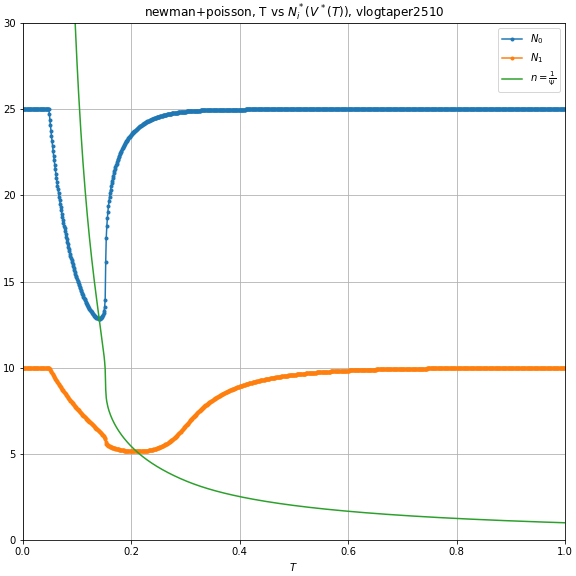
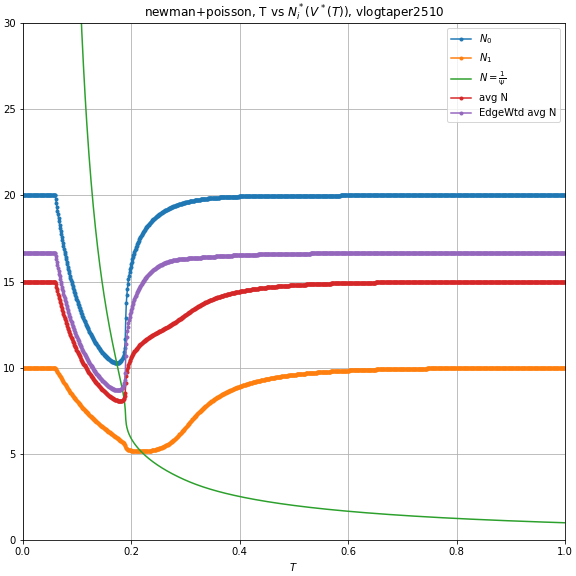
Messed up graphs

diff --git a/contagion/graph_newman_poisson.py b/contagion/graph_newman_poisson.py
@@ -31,10 +31,11 @@ fig,ax = plt.subplots(figsize=(8,5),constrained_layout=True)
 plt.plot(unit_grid,[nnp.approx_bestNi(1-Ψ, nnp.u_Nlogtaper_H) for Ψ in unit_grid])
 plt.plot(unit_grid,[nnp.approx_bestNi(1-Ψ, nnp.u_Nlogtaper_L) for Ψ in unit_grid])
 plt.plot(unit_grid,[1/Ψ for Ψ in unit_grid])
-plt.plot(unit_grid,[nnp.approx_bestNi(1-Ψ, lambda N: nnp.u_Nlogtaper(N,4,0.5)) for Ψ in unit_grid])
+#plt.plot(unit_grid,[nnp.approx_bestNi(1-Ψ, lambda N: nnp.u_Nlogtaper(N,4,0.5)) for Ψ in unit_grid])
 labelSubplot(ax, r'newman+poisson,$N_i^*(\Psi),logtaper$',r'$\Psi$',r'$N_i^*(\Psi)$')
 ax.set_ylim([0,30])
 ax.set_xlim([0,1])
+ax.grid()
 plt.savefig('graph_newman_poisson_Ni(Psi)_logtaper.png')
 
 
@@ -51,6 +52,7 @@ def plot_Ψiteration(Ai_list,utilfunc_list,speciallabel):
     ax.set_ylim([0,1])
     ax.set_xlim([0,1])
     ax.legend()
+    ax.grid()
     labelSubplot(ax, 'newman+poisson,Ψ(N(Ψ)),'+speciallabel, '$Ψ$', '$Ψ(\{N_i^*(Ψ)\})$')
     plt.savefig('graph_newman_poisson_Ψ(N(Ψ))_'+speciallabel+'.png')
     
@@ -72,6 +74,7 @@ def plot_Ψiteration_differencetest(Ai_list,utilfunc_list):
     ax.set_ylim([-ytol,ytol])
     ax.set_xlim([xmn,xmx])
     ax.legend()
+    ax.grid()
     plt.show()
 #plot_Ψiteration_differencetest([0.5,0.5],[nnp.u_Nlogtaper_H,nnp.u_Nlogtaper_L])   
 
@@ -81,24 +84,32 @@ def plot_equilibriumvsT(Ai_list,utilfunc_list,speciallabel):
     '''Iterate through T, find an equilibrium edge risk at each point. 
     Plug that in to get choices and prevalences. Plot  two graphs.'''
     #unit_grid = np.arange(0.15,0.155,0.00001)
+    unit_grid = np.arange(0.15,0.25,0.0001)
     #Calculate the gridpoints: eqlb edge risk, eqlb connections, eqlb r_infty
     equilV_grid = [nnp.approx_equilibriumV(T, Ai_list, utilfunc_list) for T in unit_grid]
     equilΨ_grid = [1-V for V in equilV_grid]
     Ni_grids = [[nnp.approx_bestNi(V,utilfunc) for V in equilV_grid] for utilfunc in utilfunc_list]
+    #averages 
     Rinfty_grids = [[nnp.calc_p(Ni, V) for Ni,V in zip(Ni_grid,equilV_grid)] for Ni_grid in Ni_grids]
-    
+    weightedN_grid = sum([Ai*np.array(Ni_grid) for Ai,Ni_grid in zip(Ai_list,Ni_grids)])
+    weightedN2_grid = sum([Ai*np.array(Ni_grid)**2 for Ai,Ni_grid in zip(Ai_list,Ni_grids)])
+    edgeweightedN_grid = weightedN2_grid/weightedN_grid
+    weightedR_grid = sum([Ai*np.array(Ri_grid) for Ai,Ri_grid in zip(Ai_list,Rinfty_grids)])
+    edgesharetype0_grid = Ai_list[0]*np.array(Ni_grids[0])/weightedN_grid
     
     # First plot a graph of risk and prevalence.
     fig,ax = plt.subplots(figsize=(8,8),constrained_layout=True)
     
     ax.plot(unit_grid,unit_grid,c='black',linestyle='dotted')#45degree line
     for i,Ri_grid in enumerate(Rinfty_grids):
-        ax.plot(unit_grid, Ri_grid, label=r'$R_{\infty '+str(i)+r'}$', marker='.')
+        ax.plot(unit_grid, Ri_grid, label=r'$p(N_'+str(i)+r')$', marker='.')
     ax.plot(unit_grid, equilΨ_grid, label=r'$Ψ_{eq}$', marker='.')
+    ax.plot(unit_grid, weightedR_grid, label=r'$R_{\infty}$', marker='.')
+    ax.plot(unit_grid, edgesharetype0_grid, label='$edgshr_{0}$', marker='.')
     
     ax.set_ylim([0,1])
     ax.set_xlim([0,1])
-    ax.legend()
+    ax.legend(loc='lower right')
     ax.grid()
     labelSubplot(ax, 'newman+poisson, T vs equilibrium prevalence, '+speciallabel, '$T$', '')
     plt.savefig('graph_newman_poisson_equilibriumprev_'+speciallabel+'.png')
@@ -110,19 +121,25 @@ def plot_equilibriumvsT(Ai_list,utilfunc_list,speciallabel):
     
     for i,Ni_grid in enumerate(Ni_grids):
         ax.plot(unit_grid, Ni_grid, label='$N_'+str(i)+'$', marker='.')    
-    plt.plot(unit_grid,[1/Ψ for Ψ in equilΨ_grid], label=r'$n=\frac{1}{\Psi}$')
+    plt.plot(unit_grid,[1/Ψ for Ψ in equilΨ_grid], label=r'$N=\frac{1}{\Psi}$')
+    ax.plot(unit_grid, weightedN_grid, label='avg N', marker='.')   
+    ax.plot(unit_grid, edgeweightedN_grid, label='EdgeWtd avg N', marker='.')   
     #plt.plot([0.153,0.153],[0,30])
     
     ax.set_ylim([0,30])
     ax.set_xlim([0,1])
-    ax.legend()
+    ax.legend(loc='upper right')
     ax.grid()
     labelSubplot(ax, r'newman+poisson, T vs $N_i^*(V^*(T))$, '+speciallabel, '$T$', '')
     plt.savefig('graph_newman_poisson_equilibriumchoices_'+speciallabel+'.png')
     
 
 
-plot_equilibriumvsT([0.5,0.5],[nnp.u_Nlogtaper_H,nnp.u_Nlogtaper_L],'vlogtaper2510')    
+plot_equilibriumvsT([0.5,0.5],[nnp.u_Nlogtaper_H,nnp.u_Nlogtaper_L],'vlogtaper2010')    
+#plot_equilibriumvsT([0.5,0.5],[nnp.u_Nlogtaper_H,nnp.u_Nlogtaper_L],'vlogtaper2010zoom')  
+
+#plot_equilibriumvsT([0.5,0.5],[nnp.u_Nlogtaper_H,nnp.u_Nlogtaper_L],'vlogtaper2510')    
+#plot_equilibriumvsT([0.5,0.5],[nnp.u_Nlogtaper_H,nnp.u_Nlogtaper_L],'vlogtaper2510zoom')    
 
 
 

diff --git a/contagion/numsolve_newman_poisson.py b/contagion/numsolve_newman_poisson.py
@@ -126,7 +126,7 @@ def u_Nlogtaper(N,Nsansrisk,weight):
     #vsansrisk is a parameter representing the optimum choice when rtauW=0
     return weight*(np.log(N) - N**2 / (2*Nsansrisk**2))
 
-φH = 25
+φH = 20
 φL = 10
 
 def u_Nlogtaper_H(N):

diff --git a/contagion/notes_newman_poisson.md b/contagion/notes_newman_poisson.md
@@ -103,7 +103,7 @@ These utility functions were chosen so that
 - but eventually the utility from connections tapers off and starts decreasing.
 - The response to disease risk is large enough to be noticeable.
 
-![Blue line showing n_H^* as a function of V, and an orange line showing the same for L types.](graph_newman_twotype_n(V).png)
+![Blue line showing n_H^* as a function of V, and an orange line showing the same for L types.](graph_newman_poisson_Ni(Psi)_logtaper.png)
 
 *Notice how both types start becoming increasingly fatalistic after crossing the threshold $$n=\frac{1}{1-V}$$.*
 
@@ -112,7 +112,13 @@ and these connection parameters in term induce a contagion network in which
 the danger from each connection is uniquely $$\Psi(N_H^*,N_L^*)$$ (or 0).
 This is an equilibrium if $$\Psi=\Psi(N_H^*,N_L^*)$$
 
-![](graph_newman_poisson_Ψ(N(Ψ))_vlogtaper2510.png)
+
+<table><tr>
+<td><img src="graph_newman_poisson_Ψ(N(Ψ))_vlogtaper2510.png"></td>
+<td><img src="graph_newman_poisson_equilibriumprev_vlogtaper2510"></td>
+<td><img src="graph_newman_poisson_equilibriumchoices_vlogtaper2510"></td>
+</tr></table>
+
 
 *It also seems clear when zooming in that there are no values of T that give multiple equilibria for this particular setup.*
 
